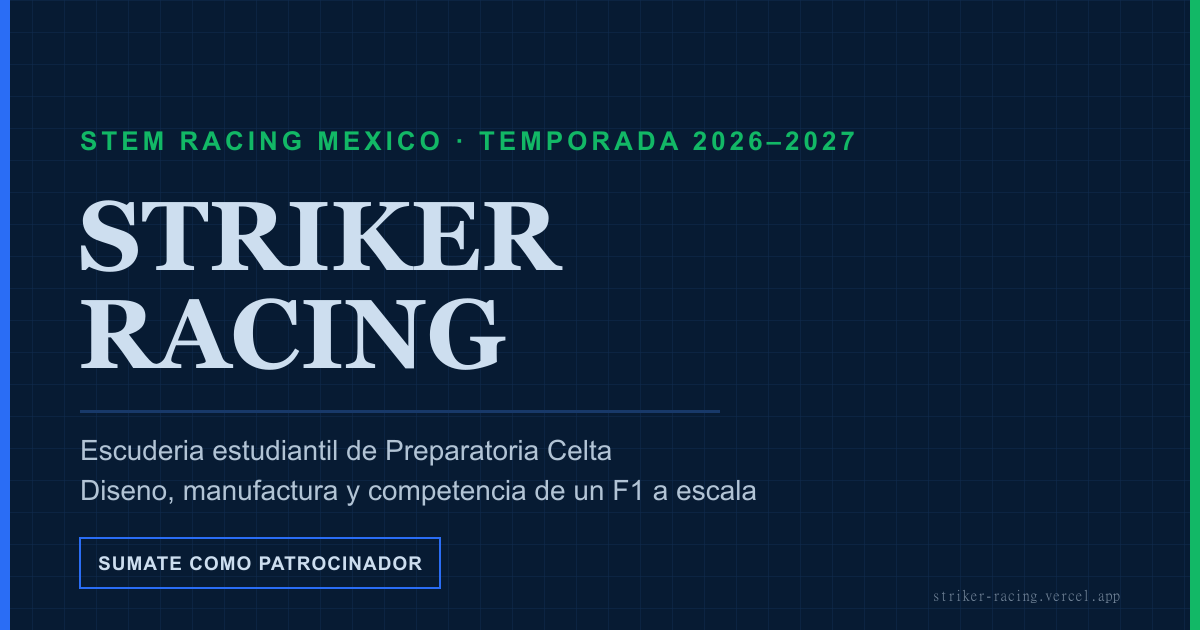
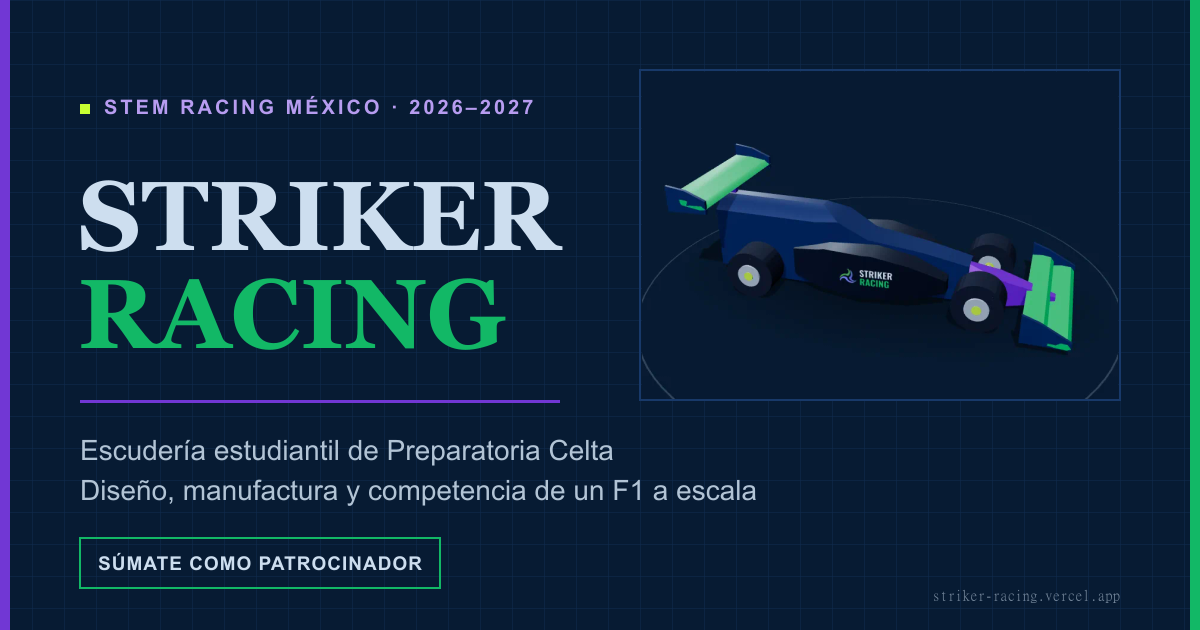
fix(pendientes): og-preview con paleta oficial y auto nuevo; herramientas visibles en móvil
- og-preview.png regenerada (6 colores + póster del SR-26 con la librea nueva).
- En móvil, un toque en la card (o en el botón Herramientas) despliega las herramientas.
- Contraste: verde sobre #183969 (4.42:1) no aparece en ningún texto; auditoría automática sin fallos AA.

Claude-Session: https://claude.ai/code/session_019ZfBaGv2dhEh3vBUfnugRA

diff --git a/index.html b/index.html
@@ -167,6 +167,7 @@
           <li>Cumplimiento del reglamento técnico STEM Racing</li>
           <li>Planeación del cronograma de temporada</li>
         </ul>
+        <button class="pass-tools-toggle" type="button" aria-expanded="false">Herramientas</button>
         <div class="pass-chips"><span>Autodesk Fusion 360</span><span>Gestión de proyecto</span></div>
         <div class="pass-foot"><button class="cv-view-btn" type="button" data-file="/cv/ariadna-mejia.pdf" data-name="Ariadna Mejía Hernández">Ver Credencial Técnica</button></div>
       </article>
@@ -184,6 +185,7 @@
           <li>Seguimiento de patrocinadores y reportes de avance</li>
           <li>Logística de viáticos, inscripción y trámites</li>
         </ul>
+        <button class="pass-tools-toggle" type="button" aria-expanded="false">Herramientas</button>
         <div class="pass-chips"><span>Control financiero</span><span>Coordinación de patrocinios</span></div>
         <div class="pass-foot"><button class="cv-view-btn" type="button" data-file="/cv/unai-bozalongo.pdf" data-name="Unai Bozalongo Valiente">Ver Credencial Técnica</button></div>
       </article>
@@ -201,6 +203,7 @@
           <li>Redes sociales y comunidad de Preparatoria Celta</li>
           <li>Material gráfico para jueces y patrocinadores</li>
         </ul>
+        <button class="pass-tools-toggle" type="button" aria-expanded="false">Herramientas</button>
         <div class="pass-chips"><span>Diseño gráfico</span><span>Redes sociales</span></div>
         <div class="pass-foot"><button class="cv-view-btn" type="button" data-file="/cv/mafer-escobar.pdf" data-name="María Fernanda Escobar López">Ver Credencial Técnica</button></div>
       </article>
@@ -218,6 +221,7 @@
           <li>Ensamblaje y control dimensional vs. reglamento</li>
           <li>Preparación de prototipos para pruebas en pista</li>
         </ul>
+        <button class="pass-tools-toggle" type="button" aria-expanded="false">Herramientas</button>
         <div class="pass-chips"><span>CNC</span><span>Impresión 3D</span><span>Fusion CAM</span></div>
         <div class="pass-foot"><button class="cv-view-btn" type="button" data-file="/cv/ulises-gutierrez.jpg" data-name="Josué Ulises Gutiérrez Rodríguez">Ver Credencial Técnica</button></div>
       </article>
@@ -235,6 +239,7 @@
           <li>Integración técnica CAD – manufactura – reglamento</li>
           <li>Desarrollo del sitio y la memoria técnica</li>
         </ul>
+        <button class="pass-tools-toggle" type="button" aria-expanded="false">Herramientas</button>
         <div class="pass-chips"><span>Ansys Student CFD</span><span>Autodesk Fusion 360</span></div>
         <div class="pass-foot"><button class="cv-view-btn" type="button" data-file="/cv/carlo-serafin.pdf" data-name="Carlo David Serafín González Pacheco">Ver Credencial Técnica</button></div>
       </article>
@@ -253,6 +258,7 @@
           <li>Supervisión de CAD, manufactura y reglamento</li>
           <li>Vínculo institucional con Preparatoria Celta</li>
         </ul>
+        <button class="pass-tools-toggle" type="button" aria-expanded="false">Herramientas</button>
         <div class="pass-chips"><span>SolidWorks CSWA / CSWP</span><span>Lean Six Sigma Black Belt</span><span>CAD / Robótica</span></div>
         <div class="pass-foot"><button class="cv-view-btn" type="button" data-file="/cv/alejandro-felix.pdf" data-name="Alejandro Félix Barajas">Ver Credencial Técnica</button></div>
       </article>

diff --git a/en/index.html b/en/index.html
@@ -167,6 +167,7 @@
           <li>Compliance with STEM Racing technical regulations</li>
           <li>Season schedule planning</li>
         </ul>
+        <button class="pass-tools-toggle" type="button" aria-expanded="false">Tools</button>
         <div class="pass-chips"><span>Autodesk Fusion 360</span><span>Project management</span></div>
         <div class="pass-foot"><button class="cv-view-btn" type="button" data-file="/cv/ariadna-mejia.pdf" data-name="Ariadna Mejía Hernández">View Technical Credential</button></div>
       </article>
@@ -184,6 +185,7 @@
           <li>Sponsor tracking and progress reports</li>
           <li>Travel, registration and admin logistics</li>
         </ul>
+        <button class="pass-tools-toggle" type="button" aria-expanded="false">Tools</button>
         <div class="pass-chips"><span>Financial control</span><span>Sponsorship coordination</span></div>
         <div class="pass-foot"><button class="cv-view-btn" type="button" data-file="/cv/unai-bozalongo.pdf" data-name="Unai Bozalongo Valiente">View Technical Credential</button></div>
       </article>
@@ -201,6 +203,7 @@
           <li>Social media and the Preparatoria Celta community</li>
           <li>Graphic material for judges and sponsors</li>
         </ul>
+        <button class="pass-tools-toggle" type="button" aria-expanded="false">Tools</button>
         <div class="pass-chips"><span>Graphic design</span><span>Social media</span></div>
         <div class="pass-foot"><button class="cv-view-btn" type="button" data-file="/cv/mafer-escobar.pdf" data-name="María Fernanda Escobar López">View Technical Credential</button></div>
       </article>
@@ -218,6 +221,7 @@
           <li>Assembly and dimensional control vs. regulations</li>
           <li>Preparing prototypes for on-track testing</li>
         </ul>
+        <button class="pass-tools-toggle" type="button" aria-expanded="false">Tools</button>
         <div class="pass-chips"><span>CNC</span><span>3D printing</span><span>Fusion CAM</span></div>
         <div class="pass-foot"><button class="cv-view-btn" type="button" data-file="/cv/ulises-gutierrez.jpg" data-name="Josué Ulises Gutiérrez Rodríguez">View Technical Credential</button></div>
       </article>
@@ -235,6 +239,7 @@
           <li>Technical integration: CAD – manufacturing – regulations</li>
           <li>Team website and technical report</li>
         </ul>
+        <button class="pass-tools-toggle" type="button" aria-expanded="false">Tools</button>
         <div class="pass-chips"><span>Ansys Student CFD</span><span>Autodesk Fusion 360</span></div>
         <div class="pass-foot"><button class="cv-view-btn" type="button" data-file="/cv/carlo-serafin.pdf" data-name="Carlo David Serafín González Pacheco">View Technical Credential</button></div>
       </article>
@@ -253,6 +258,7 @@
           <li>Supervision of CAD, manufacturing and regulations</li>
           <li>Institutional link with Preparatoria Celta</li>
         </ul>
+        <button class="pass-tools-toggle" type="button" aria-expanded="false">Tools</button>
         <div class="pass-chips"><span>SolidWorks CSWA / CSWP</span><span>Lean Six Sigma Black Belt</span><span>CAD / Robotics</span></div>
         <div class="pass-foot"><button class="cv-view-btn" type="button" data-file="/cv/alejandro-felix.pdf" data-name="Alejandro Félix Barajas">View Technical Credential</button></div>
       </article>

diff --git a/css/gallery.css b/css/gallery.css
@@ -301,6 +301,7 @@ section{padding:104px 0;}
   .team-stats{grid-template-columns:repeat(2,minmax(0,1fr)); gap:32px 24px; margin-bottom:56px;}
 }
 .pass-head{display:none;}
+.pass-tools-toggle{display:none;}
 .pass-top{position:absolute; top:0; left:0; padding:18px 20px 0;}
 .pass-no{font-family:var(--mono); font-size:0.85rem; font-weight:700; letter-spacing:0.12em; color:var(--ice); background:rgba(7,27,51,0.75); padding:4px 10px;}
 .pass-id{padding:0 22px;}
@@ -516,6 +517,17 @@ footer .brand-mark{height:26px;}
 @media (max-width:800px){
   .paddock-pass{min-height:640px;}
   .paddock-pass::before{background:linear-gradient(180deg, rgba(7,27,51,0) 8%, rgba(7,27,51,0.9) 42%, #071B33 66%);}
+  /* Táctil: las herramientas se despliegan con un toque en la card (o en el botón) */
   .paddock-pass .pass-chips{display:none;}
+  .paddock-pass.is-open .pass-chips{display:flex;}
+  .pass-tools-toggle{
+    display:flex; justify-content:space-between; align-items:center; width:calc(100% - 44px); margin:14px 22px 0; padding:10px 0 0;
+    background:none; border:none; border-top:1px solid var(--border-fine); cursor:pointer; text-align:left;
+    font-family:var(--mono); font-size:0.7rem; letter-spacing:0.12em; text-transform:uppercase; color:var(--ice);
+  }
+  .pass-tools-toggle::after{content:"+"; font-size:1.1rem; color:var(--emerald); letter-spacing:0;}
+  .paddock-pass.is-open .pass-tools-toggle::after{content:"–";}
+  .paddock-pass.is-open .pass-chips{padding-top:10px;}
+  .paddock-pass{cursor:pointer;}
   .team-feature .team-stats{gap:28px 20px;}
 }

diff --git a/js/site.js b/js/site.js
@@ -47,6 +47,19 @@
     });
   }
 
+  // ---------- CARDS DE EQUIPO (táctil): un toque despliega las herramientas ----------
+  var narrow = window.matchMedia ? window.matchMedia('(max-width:800px)') : { matches:false };
+  document.querySelectorAll('.paddock-pass').forEach(function(card){
+    var btn = card.querySelector('.pass-tools-toggle');
+    if(!btn) return;
+    function set(open){ card.classList.toggle('is-open', open); btn.setAttribute('aria-expanded', open ? 'true' : 'false'); }
+    btn.addEventListener('click', function(e){ e.stopPropagation(); set(!card.classList.contains('is-open')); });
+    card.addEventListener('click', function(e){
+      if(!narrow.matches || e.target.closest('a, button')) return;
+      set(!card.classList.contains('is-open'));
+    });
+  });
+
   // ---------- VOLVER ARRIBA ----------
   var backToTop = document.getElementById('backToTop');
   if(backToTop){
